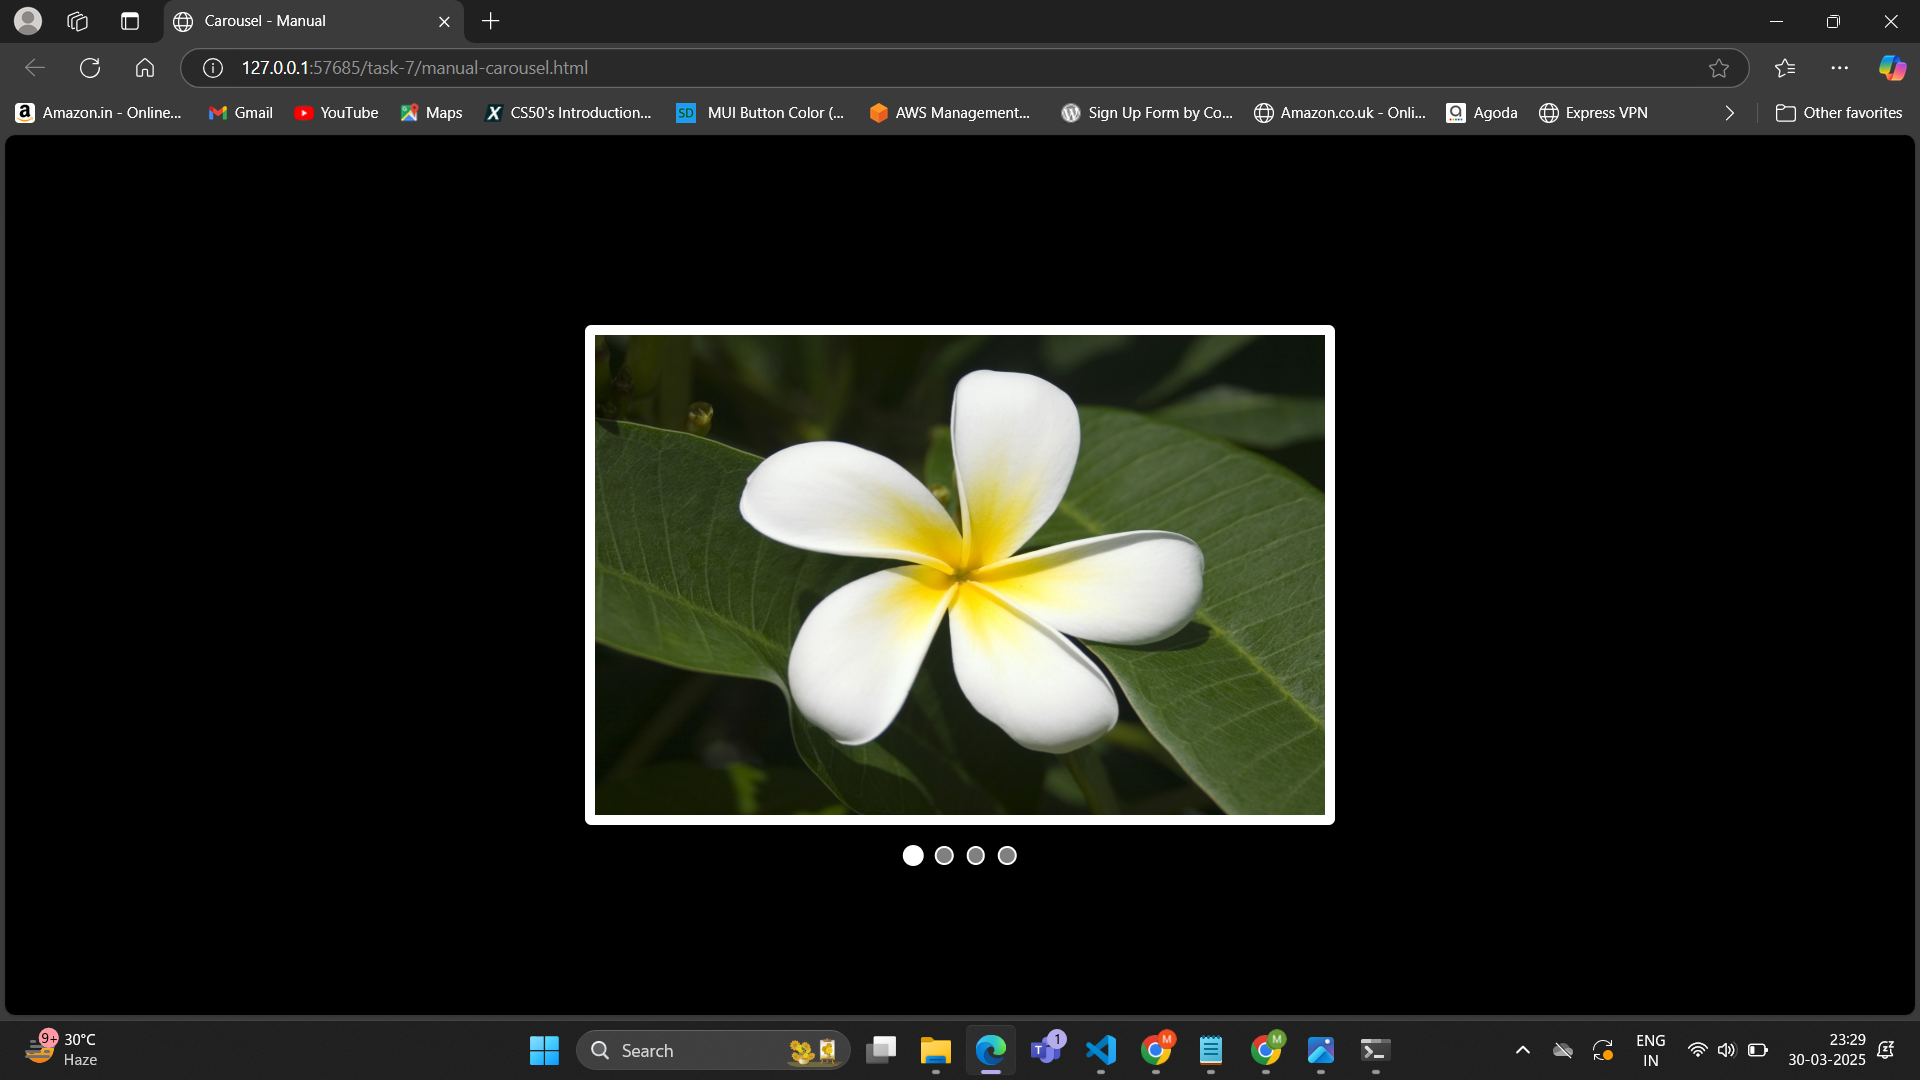
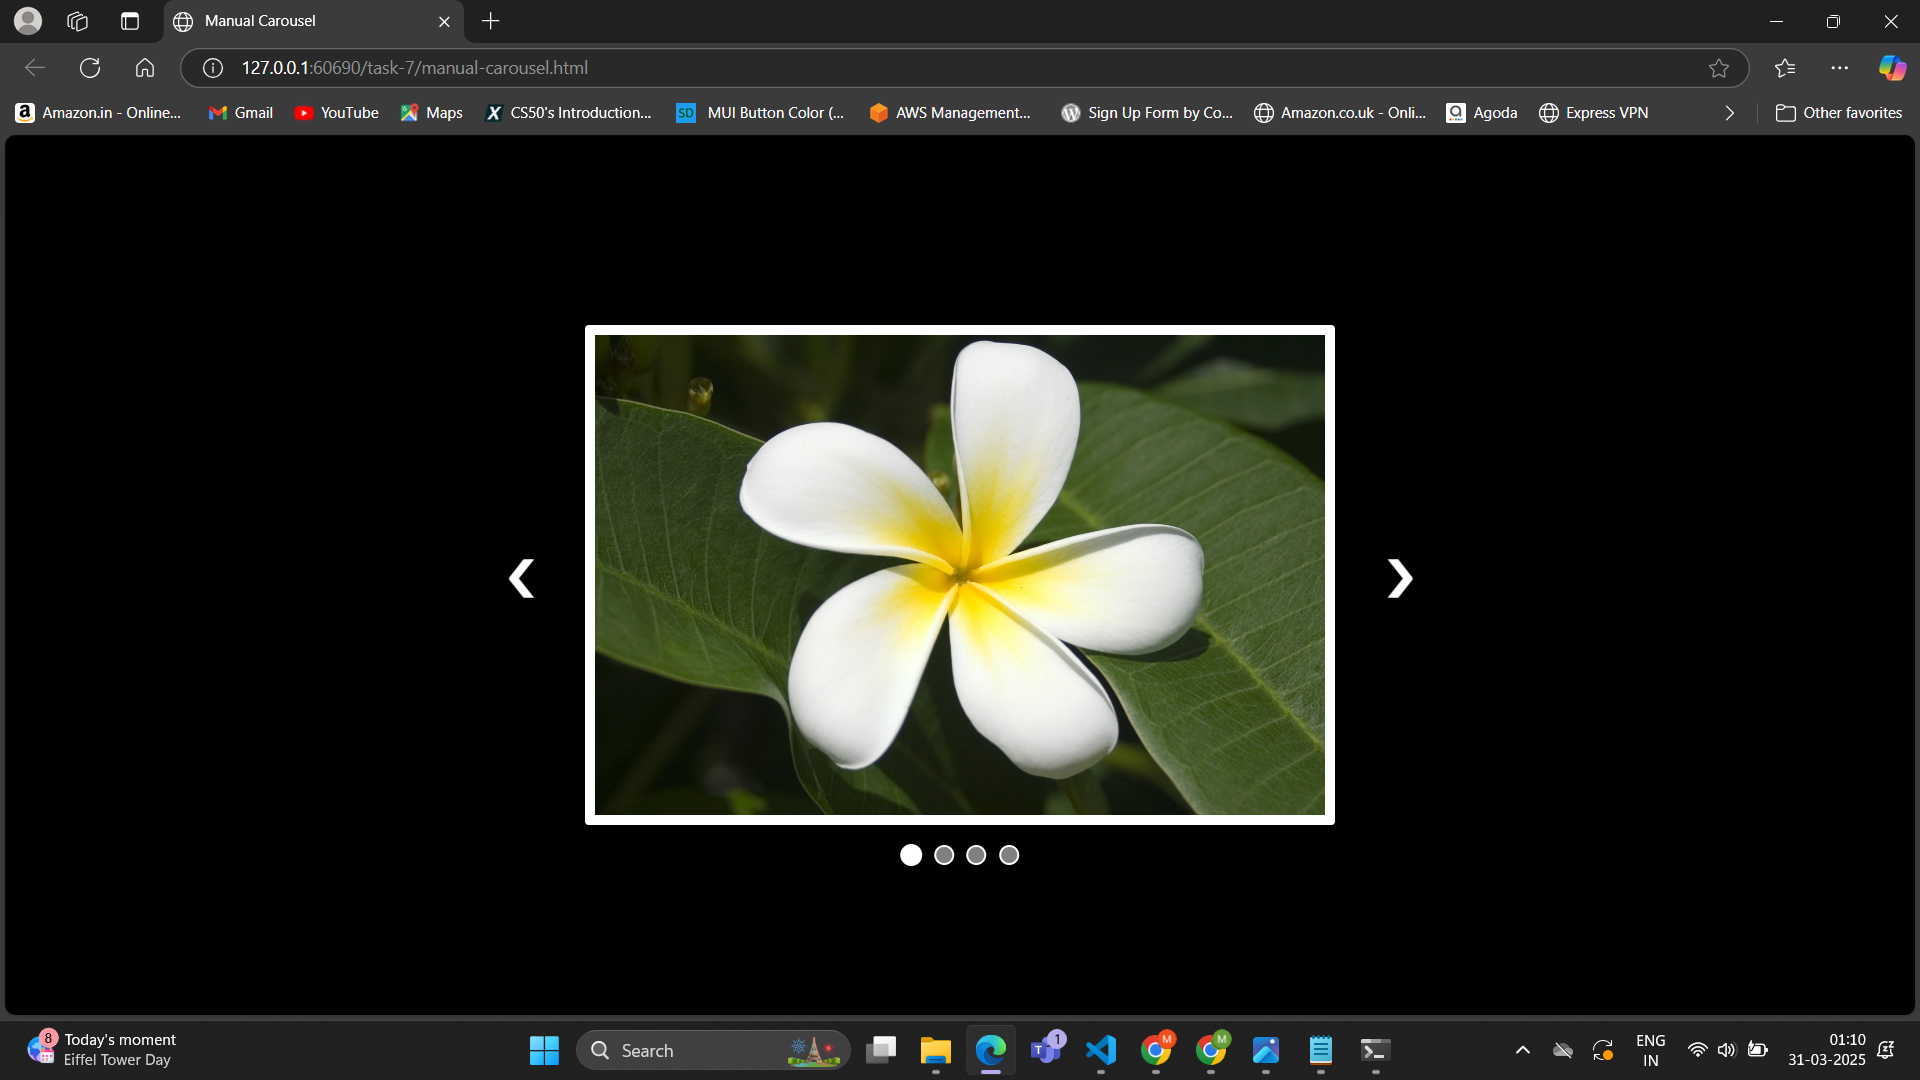
Add arrow navigation for manual sliding in carousel

diff --git a/task-7/manual-carousel.css b/task-7/manual-carousel.css
@@ -4,7 +4,7 @@
     box-sizing: border-box;
 }
 
-body {    
+.container{
     display: flex;
     justify-content: center;
     align-items: center;
@@ -12,23 +12,29 @@ body {
     background-color: black;
 }
 
-.container {
-    width: 90%; 
-    max-width: 600px; 
+.carousel{
+    width: 90%;
+    max-width: 600px;
     height: 400px;
-    border-radius: 5px;
     border: 8px solid white;
-}
-
-.carousel {
-    width: 100%;
-    height: 100%;
+    border-radius: 3px;
+    background-color: black;
     position: relative;
 }
 
-.slide{
-    width: 100%;
+input[type="radio"]{
+    display: none;
+}
+
+.slides{
     height: 100%;
+    width: 100%;
+}
+
+.slides img{
+    height: 100%;
+    width: 100%;
+    object-fit: cover;
     position: absolute;
     top: 0;
     left: 0;
@@ -37,48 +43,86 @@ body {
     transition: opacity 0.3s ease;
 }
 
-/* Active slide */
-#slide1:checked ~ #image1,
-#slide2:checked ~ #image2, 
-#slide3:checked ~ #image3,
-#slide4:checked ~ #image4 {
+/* Active child */
+#slide1:checked ~ .slides #image1,
+#slide2:checked ~ .slides #image2,
+#slide3:checked ~ .slides #image3,
+#slide4:checked ~ .slides #image4{
     visibility: visible;
     opacity: 1;
 }
 
-
-input[type="radio"] {
-    display: none;
-}
-
-.controls {
-    position: absolute;
-    bottom: -40px;
-    left: 50%;
-    transform: translateX(-50%);
+.controls{
     display: flex;
+    justify-content: center;
+    align-items: center;
     gap: 10px;
+    position: absolute;
+    left: 50%;
+    bottom: -40px;
+    transform: translateX(-50%);
 }
 
-.controls label {
-    width: 15px;
-    height: 15px;
-    background-color: gray;
-    border: 2px solid #fff;
+.controls label{
+    width: 16px;
+    height: 16px;
     border-radius: 50%;
     cursor: pointer;
+    background-color: gray;
+    border: 2px solid #fff;
     transition: background-color 0.3s;
 }
 
-.controls label:hover {
-    background-color: white; 
-    transform: scale(1.1);
-    }
+.controls label:hover{
+    background-color: #d4d3d3;
+}
 
+/* Active label */
 #slide1:checked ~ .controls label:nth-child(1),
 #slide2:checked ~ .controls label:nth-child(2),
 #slide3:checked ~ .controls label:nth-child(3),
-#slide4:checked ~ .controls label:nth-child(4) {
-    background-color: white;
+#slide4:checked ~ .controls label:nth-child(4){
+    background-color: #fff;
+    transform: scale(1.1);
 }
 
+.arrows .prev{
+    position: absolute;
+    top: 50%;
+    left: -70px;
+    transform: translateY(-50%);
+}
+
+.arrows .next{
+    position: absolute;
+    top: 50%;
+    right: -70px;
+    transform: translateY(-50%);
+}
+
+.arrows label {
+    color: #fff;
+    font-size: 40px;
+    font-weight: bold;
+    border-radius: 50%;
+    cursor: pointer;
+    visibility: hidden; 
+    opacity: 0;
+}
+
+.arrows label:hover {
+    color: rgb(237, 234, 234);
+}
+
+/* Active arrows */
+#slide1:checked ~ .arrows #prev1,
+#slide1:checked ~ .arrows #next1,
+#slide2:checked ~ .arrows #prev2,
+#slide2:checked ~ .arrows #next2,
+#slide3:checked ~ .arrows #prev3,
+#slide3:checked ~ .arrows #next3,
+#slide4:checked ~ .arrows #prev4,
+#slide4:checked ~ .arrows #next4 {
+    visibility: visible;
+    opacity: 1;
+}

diff --git a/task-7/manual-carousel.html b/task-7/manual-carousel.html
@@ -3,31 +3,45 @@
 <head>
     <meta charset="UTF-8">
     <meta name="viewport" content="width=device-width, initial-scale=1.0">
-    <title>Carousel - Manual</title> 
+    <title>Manual Carousel</title>
     <link rel="stylesheet" href="./manual-carousel.css">
 </head>
 <body>
     <div class="container">
         <div class="carousel">
-            <input type="radio" name="carousel" id="slide1" checked>
-            <input type="radio" name="carousel" id="slide2">
-            <input type="radio" name="carousel" id="slide3">
-            <input type="radio" name="carousel" id="slide4">
-            
-            <img src="./assets/image-8.jpg" class="slide" id="image1">
-            <img src="./assets/image-5.jpg" class="slide" id="image2">
-            <img src="./assets/image-10.jpg" class="slide" id="image3">
-            <img src="./assets/image-6.jpg" class="slide" id="image4">
-            
+            <input type="radio" name="slide" id="slide1" checked>
+            <input type="radio" name="slide" id="slide2">
+            <input type="radio" name="slide" id="slide3">
+            <input type="radio" name="slide" id="slide4">
+
+            <div class="slides">
+                <img src="./assets/image-8.jpg" class="slide" id="image1">
+                <img src="./assets/image-10.jpg"class="slide" id="image2">
+                <img src="./assets/image-5.jpg" class="slide" id="image3">
+                <img src="./assets/image-6.jpg" class="slide" id="image4">
+            </div>
+
             <div class="controls">
                 <label for="slide1"></label>
                 <label for="slide2"></label>
                 <label for="slide3"></label>
                 <label for="slide4"></label>
             </div>
+
+            <div class="arrows">
+                <label for="slide4" class="prev" id="prev1">&#10094;</label> 
+                <label for="slide2" class="next" id="next1">&#10095;</label>
+            
+                <label for="slide1" class="prev" id="prev2">&#10094;</label>
+                <label for="slide3" class="next" id="next2">&#10095;</label>
+            
+                <label for="slide2" class="prev" id="prev3">&#10094;</label>
+                <label for="slide4" class="next" id="next3">&#10095;</label>
+            
+                <label for="slide3" class="prev" id="prev4">&#10094;</label>
+                <label for="slide1" class="next" id="next4">&#10095;</label>
+            </div>
         </div>
-    </div>
-    
+    </div>    
 </body>
 </html>
-
